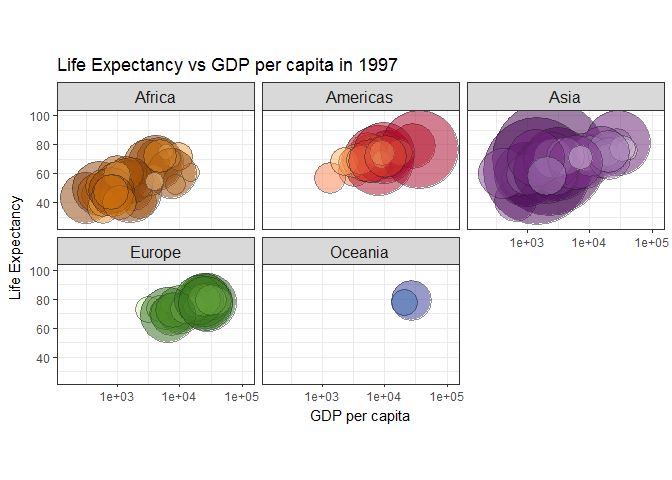
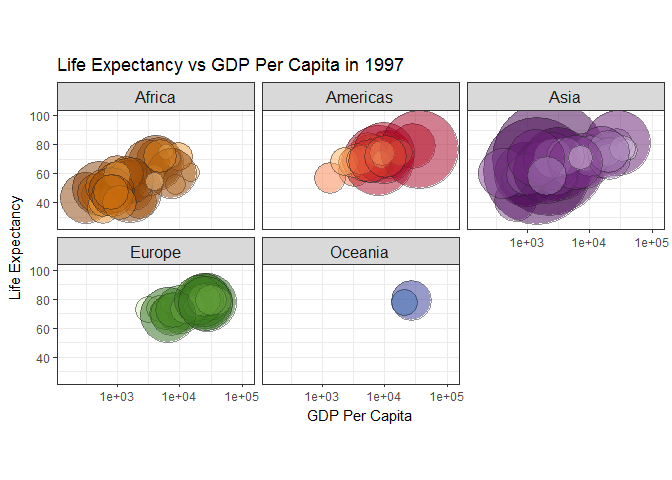
changes to figure titles

Changed region(s): [[0.375, 0.0938, 0.5938, 0.1562], [0.4375, 0.8438, 0.625, 0.9062]]

diff --git a/hw02/hw02.md b/hw02/hw02.md
@@ -231,7 +231,7 @@ table(gapminder$continent)
     ##   Africa Americas     Asia   Europe  Oceania 
     ##      624      300      396      360       24
 
-The first function lets us know that there are five continents listed in the gapminder data frame and the last two functions both provide the number of elements for each of the continents.
+The first function lets us know that there are five continents listed in the gapminder dataset and the last two functions both provide the number of elements for each of the continents.
 
 For the 'country' variable there are 142 countries listed in the gapminder dataset.
 
@@ -322,7 +322,7 @@ barplot(table(gapminder$continent))
 
 Based on this graph there are more observations for Africa, followed by Asia, Europe, Americas, and then Oceania. Continents display a slightly skewed right distribution.
 
-A historgram can be used to illustrate the distribution for life expectantcy and GDP per capita.
+A histogram can be used to illustrate the distribution for life expectantcy and GDP per capita.
 
 ``` r
 hist(gapminder$lifeExp)
@@ -348,7 +348,7 @@ gapminder %>%
   group_by(continent,year) %>%
   ggplot(aes(x = year, y = gdpPercap)) +
   geom_point(aes(colour = continent)) +
-  labs(title = "GDP Per Capita vs Year", x = "Year", y = "GDP per capita")
+  labs(title = "GDP Per Capita vs Year", x = "Year", y = "GDP Per Capita")
 ```
 
 ![](hw02_files/figure-markdown_github-ascii_identifiers/unnamed-chunk-21-1.png)
@@ -360,15 +360,17 @@ gapminder %>%
     filter(country %in% c("Canada", "New Zealand","France", "Belgium", "Denmark")) %>% 
              ggplot(aes(x = year, y = gdpPercap, shape = country)) + 
                    geom_line() + geom_point(size=2) +
-  labs(title = "GDP Per Capita vs Year", x = "Year", y = "GDP per capita")
+  labs(title = "GDP Per Capita vs Year", x = "Year", y = "GDP Per Capita")
 ```
 
-![](hw02_files/figure-markdown_github-ascii_identifiers/unnamed-chunk-22-1.png) The same graph can also be created the following way.
+![](hw02_files/figure-markdown_github-ascii_identifiers/unnamed-chunk-22-1.png)
+
+The same graph can also be created the following way.
 
 ``` r
 fiveCountries <- c("Canada", "New Zealand","France", "Belgium", "Denmark")
 x<-droplevels(subset(gapminder, country %in% fiveCountries))
-ggplot(x, aes(x = year, y = gdpPercap, shape = country)) + geom_line() + geom_point(size=2) + labs(title = "GDP Per Capita vs Year", x = "Year", y = "GDP per capita")
+ggplot(x, aes(x = year, y = gdpPercap, shape = country)) + geom_line() + geom_point(size=2) + labs(title = "GDP Per Capita vs Year", x = "Year", y = "GDP Per Capita")
 ```
 
 ![](hw02_files/figure-markdown_github-ascii_identifiers/unnamed-chunk-23-1.png)
@@ -380,7 +382,7 @@ gapminder %>%
     filter(country %in% c("Canada", "New Zealand","France", "Belgium", "Denmark")) %>% 
     ggplot(aes(x = year, y = gdpPercap, colour = country)) + 
     geom_line() + geom_point(size=2) +
-    labs(title = "GDP Per Capita vs Year", x = "Year", y = "GDP per capita")
+    labs(title = "GDP Per Capita vs Year", x = "Year", y = "GDP Per Capita")
 ```
 
 ![](hw02_files/figure-markdown_github-ascii_identifiers/unnamed-chunk-24-1.png)
@@ -390,7 +392,7 @@ A boxplot of the GDP per capita of five countries.
 ``` r
 gapminder %>%
     filter(country %in% c("Canada", "New Zealand","France", "Belgium", "Denmark")) %>% 
-             ggplot(aes(x = country, y = gdpPercap)) + geom_boxplot() + labs(title = "GDP Per Capita vs Country", x = "Country", y = "GDP per capita" )
+             ggplot(aes(x = country, y = gdpPercap)) + geom_boxplot() + labs(title = "GDP Per Capita vs Country", x = "Country", y = "GDP Per Capita" )
 ```
 
 ![](hw02_files/figure-markdown_github-ascii_identifiers/unnamed-chunk-25-1.png)
@@ -402,7 +404,7 @@ gapminder %>%
     filter(country %in% c("Canada", "New Zealand","France", "Belgium", "Denmark")) %>% 
              ggplot(aes(x = country, y = gdpPercap)) + geom_boxplot() + 
   geom_jitter(position = position_jitter(width = 0.1, height = 0), alpha = 0.3, size = 2.5, colour = "blue") +
-  labs(title = "GDP Per Capita vs Country", x = "Country", y = "GDP per capita" )
+  labs(title = "GDP Per Capita vs Country", x = "Country", y = "GDP Per capita" )
 ```
 
 ![](hw02_files/figure-markdown_github-ascii_identifiers/unnamed-chunk-26-1.png)
@@ -415,10 +417,12 @@ gapminder %>%
              ggplot(aes(x = country, y = gdpPercap)) + 
   geom_jitter(position = position_jitter(width = 0.1, height = 0), alpha = 0.3, size = 3.5, colour = "grey10") + 
   stat_summary(fun.y = mean, colour = "deeppink", geom = "point", size = 5) + 
-  labs(title = "GDP Per Capita vs Country", x = "Country", y = "GDP per capita" )
+  labs(title = "GDP Per Capita vs Country", x = "Country", y = "GDP Per Capita" )
 ```
 
-![](hw02_files/figure-markdown_github-ascii_identifiers/unnamed-chunk-27-1.png) The mean GDP per capita for each country is shown by the pink point on the plot.
+![](hw02_files/figure-markdown_github-ascii_identifiers/unnamed-chunk-27-1.png)
+
+The mean GDP per capita for each country is shown by the pink point on the plot.
 
 Now to create a density plot of the life expectantcies of the five countries.
 
@@ -444,8 +448,8 @@ ggplot(subset(gapminder, year == 1997),
        aes(x = gdpPercap, y = lifeExp)) +
   scale_x_log10(limits = jXlim) + ylim(jYlim) +
   geom_point(aes(size = sqrt(pop)), pch = jPch, colour = jDarkGray, show.legend = FALSE, alpha = 0.5) +
-  scale_size_continuous(range=c(1,40)) + facet_wrap(~ continent) + coord_fixed(ratio = 1/43) + aes(fill = country) + scale_fill_manual(values = country_colors) + theme_bw() + theme(strip.text = element_text(size = rel(1.1))) + labs(title = "Life Expectancy vs GDP per capita in 1997", 
-      x = "GDP per capita", y = "Life Expectancy")
+  scale_size_continuous(range=c(1,40)) + facet_wrap(~ continent) + coord_fixed(ratio = 1/43) + aes(fill = country) + scale_fill_manual(values = country_colors) + theme_bw() + theme(strip.text = element_text(size = rel(1.1))) + labs(title = "Life Expectancy vs GDP Per Capita in 1997", 
+      x = "GDP Per Capita", y = "Life Expectancy")
 ```
 
 ![](hw02_files/figure-markdown_github-ascii_identifiers/unnamed-chunk-29-1.png)
@@ -525,21 +529,22 @@ gapminder %>%
   kable(digits = 2, align = 'c')
 ```
 
-|   year   |     country    |                                                                                                lifeExp                                                                                               |
-|:--------:|:--------------:|:----------------------------------------------------------------------------------------------------------------------------------------------------------------------------------------------------:|
-|   1952   |     Norway     |                                                                                                 72.67                                                                                                |
-|   1957   |     Iceland    |                                                                                                 73.47                                                                                                |
-|   1962   |     Iceland    |                                                                                                 73.68                                                                                                |
-|   1967   |     Sweden     |                                                                                                 74.16                                                                                                |
-|   1972   |     Sweden     |                                                                                                 74.72                                                                                                |
-|   1977   |     Iceland    |                                                                                                 76.11                                                                                                |
-|   1982   |     Iceland    |                                                                                                 76.99                                                                                                |
-|   1987   |   Switzerland  |                                                                                                 77.41                                                                                                |
-|   1992   |     Iceland    |                                                                                                 78.77                                                                                                |
-|   1997   |     Sweden     |                                                                                                 79.39                                                                                                |
-|   2002   |   Switzerland  |                                                                                                 80.62                                                                                                |
-|   2007   |     Iceland    |                                                                                                 81.76                                                                                                |
-| From thi | s table we can | see that over time the minimum life expectantcy in Europe has gone up with Norway having the lowest life expectantcy (72.67) in 1952 and Iceland having the lowest life expectantcy (81.76) in 2007. |
+| year |   country   | lifeExp |
+|:----:|:-----------:|:-------:|
+| 1952 |    Norway   |  72.67  |
+| 1957 |   Iceland   |  73.47  |
+| 1962 |   Iceland   |  73.68  |
+| 1967 |    Sweden   |  74.16  |
+| 1972 |    Sweden   |  74.72  |
+| 1977 |   Iceland   |  76.11  |
+| 1982 |   Iceland   |  76.99  |
+| 1987 | Switzerland |  77.41  |
+| 1992 |   Iceland   |  78.77  |
+| 1997 |    Sweden   |  79.39  |
+| 2002 | Switzerland |  80.62  |
+| 2007 |   Iceland   |  81.76  |
+
+From this table we can see that over time the minimum life expectantcy in Europe has gone up with Norway having the lowest life expectantcy (72.67) in 1952 and Iceland having the lowest life expectantcy (81.76) in 2007.
 
 Report your process
 -------------------
